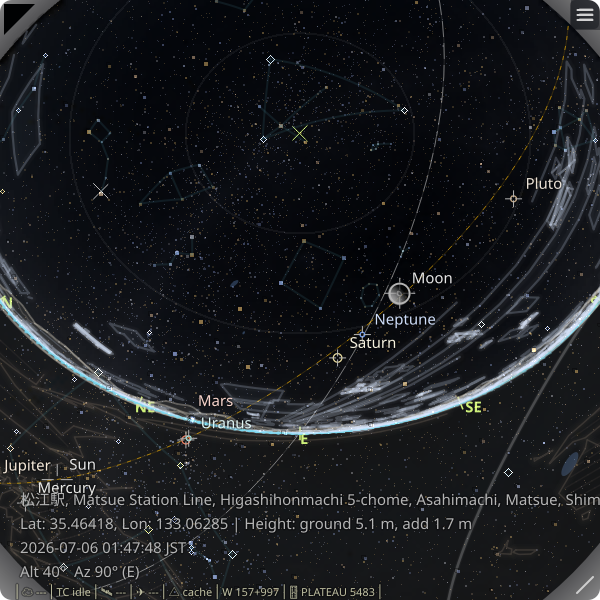
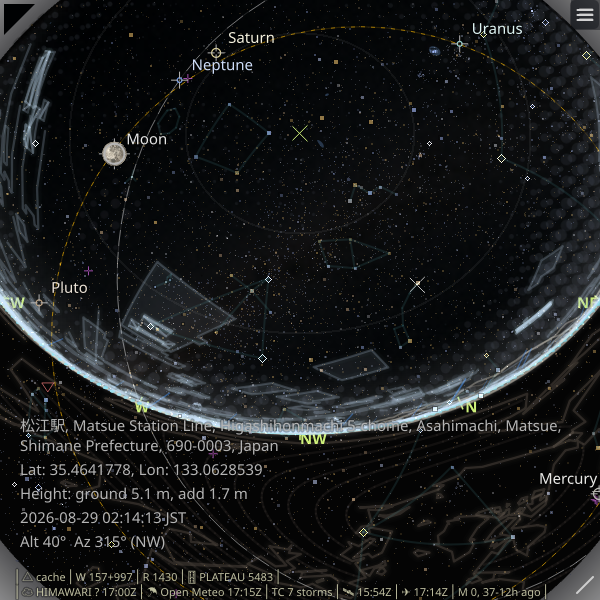
docs: refresh README screenshots

diff --git a/README_pypi.md b/README_pypi.md
@@ -21,10 +21,10 @@ https://github.com/user-attachments/assets/b0a4e340-1089-4256-9c48-b795d5c7b200
 
 ## Screen descriptions
 
-<p>This view shows the night sky over a Japanese city, displayed with <code>-p "Matsue Station" -A5 -Anw</code>. The mouse is hovering near Vega, so the asterism it belongs to, the Summer Triangle, is shown. Buildings are displayed as an <em>urban outline</em>.</p>
-<p>Clouds are visible on the left side of the image, which is the western sky, rendered as a halftone pattern of circular dots. Clouds are rendered from cloud amounts estimated from satellite data such as GOES and Himawari.</p>
+<p>This view shows the night sky over a Japanese city, displayed with <code>zstarview -p "Matsue Station" -A5 -Zn -a0.4 -P0.4</code>. The mouse is hovering near Vega, so the asterism it belongs to, the Summer Triangle, is shown. Buildings are displayed as an <em>urban outline</em>.</p>
+<p>Clouds are visible on the right side of the image, rendered as a halftone pattern of circular dots. Clouds are rendered from cloud amounts estimated from satellite data such as GOES and Himawari.</p>
 <p>Building data is generally obtained from Overture Maps, but <a href="https://github.com/tos-kamiya/zstarview#plateau-building-data-preparation">PLATEAU data</a> is also available for some Japanese cities. This screenshot uses PLATEAU data.</p>
-<p align="center"><img src="https://raw.githubusercontent.com/tos-kamiya/zstarview/main/docs/images/screenshot1.png" width="60%" alt="Night sky over Matsue Station with the Summer Triangle asterism, western clouds, and urban outline"></p>
+<p align="center"><img src="https://raw.githubusercontent.com/tos-kamiya/zstarview/main/docs/images/screenshot1.png" width="60%" alt="Night sky over Matsue Station with the Summer Triangle asterism, clouds on the right, and urban outline"></p>
 
 <p>This view shows Atlanta airport and the busy airspace above it, with more than ten aircraft visible. Aircraft trails are rendered as purple ribbons, and the ellipse below the horizon marks the <em>never-rises</em> region: the part of the celestial sphere that never comes above the horizon. The celestial equator and ecliptic are shown as dashed reference lines.</p>
 <p>The celestial equator is a great circle whose normal axis is the Earth's rotation axis, the line connecting the north and south celestial poles. The never-rises boundary is a smaller circle around the same axis.</p>
@@ -38,8 +38,8 @@ https://github.com/user-attachments/assets/b0a4e340-1089-4256-9c48-b795d5c7b200
 <p>This view is from a tower 108 meters above the ground, with the viewing altitude lowered slightly to <code>-A-5</code> degrees. Some towers, such as Kobe Port Tower, have their locations and heights registered in the internal database. Use <code>--list-viewpoints t</code> to list the available tower names, or <code>--list-viewpoints m</code> to list the available mountain names. This view also uses <em>night lights</em>, a dataset of the brightness of the ground as seen from space, which makes the ground glow differently over urban and sea areas.</p>
 <p align="center"><img src="https://raw.githubusercontent.com/tos-kamiya/zstarview/main/docs/images/screenshot9.png" width="60%" alt="Night-light ground glow viewed from a 108-meter tower at -5 degrees altitude"></p>
 
-<p>This view uses <code>-A40</code> to change the altitude of the viewing direction and shows a view looking upward into the sky. The field of view reaches 90 degrees at the edge of the screen, producing a subtle fisheye-lens effect.</p><p>The Moon is enlarged to 5x its normal apparent size after the mouse is moved over it. The enlargement makes the Moon's lunar phase—the shape of its illuminated and dark portions—easier to see. In the default bright-body mode, the normal Moon marker also uses a compact phase-aware outline. Unlike stars and planets, which are drawn according to visual magnitude, the Moon is rendered as a disk using its apparent angular size.</p>
-<p align="center"><img src="https://raw.githubusercontent.com/tos-kamiya/zstarview/main/docs/images/screenshot11.png" width="60%" alt="Moon enlarged by mouse hover in an upward-looking view over Matsue"></p>
+<p>This view uses <code>-A40</code> to change the altitude of the viewing direction and shows a view looking upward into the sky. The field of view reaches 90 degrees at the edge of the screen, producing a subtle fisheye-lens effect. The Moon is displayed in the upper-left part of the image.</p><p>The Moon is enlarged to 5x its normal apparent size after the mouse is moved over it. During normal operation, a simulated Moon image for the display time is fetched from NASA Scientific Visualization Studio's Dial-A-Moon API. The simulation includes the Moon's phase as the shadowed portion of the image.</p><p>In the default bright-body mode, the normal Moon marker uses a compact phase-aware outline. Unlike stars and planets, which are drawn according to visual magnitude, the Moon is rendered as a disk using its apparent angular size.</p>
+<p align="center"><img src="https://raw.githubusercontent.com/tos-kamiya/zstarview/main/docs/images/screenshot11.png" width="60%" alt="Moon enlarged by mouse hover in the upper-left of an upward-looking view over Matsue"></p>
 
 <p>This view shows a mountainous region of Switzerland, where steep terrain is visible along the horizon. Because the Sun is above the horizon, the sky is colored rather than fully dark. Terrain ridges are drawn in olive.</p><p>For cloud rendering, most of Europe is outside the coverage of GOES and Himawari, so clouds are not drawn by default. Experimental support is available through <code>--geo-satellite true</code>, which processes cloud imagery from a geostationary satellite.</p>
 <p align="center"><img src="https://raw.githubusercontent.com/tos-kamiya/zstarview/main/docs/images/screenshot10.png" width="60%" alt="Mountain terrain, colored sky, and halftone cloud overlay in Switzerland"></p>

diff --git a/README_ja-JP.md b/README_ja-JP.md
@@ -73,8 +73,8 @@ https://github.com/user-attachments/assets/b0a4e340-1089-4256-9c48-b795d5c7b200
 
 <table>
   <tr>
-    <td valign="top" width="33%"><img src="docs/images/screenshot1.png" alt="松江駅から見た夜空、Summer Triangle のアステリズム、画面左側の西の雲、都市アウトライン" width="100%" /></td>
-    <td valign="top"><p><code>-p "Matsue Station" -A5 -Anw</code> で表示した、日本の一都市の夜空です。恒星 Vega のあたりにマウスをホバーしているため、この星が属するアステリズムの Summer Triangle が表示されています。建物は <em>urban outline</em> として表示されています。</p><p>画面左側の西の空には雲が表示され、円形のドットを並べたハーフトーンで表現されています。雲は、GOES や Himawari などの衛星データから推定した雲量をもとに描画しています。</p><p>建物のデータは基本的には Overture Maps から取得しますが、日本の都市のいくつかについては、<a href="#plateau-building-data-preparation">PLATEAU のデータ</a>も利用可能です。このスクリーンショットでは PLATEAU のデータを利用しています。</p></td>
+    <td valign="top" width="33%"><img src="docs/images/screenshot1.png" alt="松江駅から見た夜空、Summer Triangle のアステリズム、画面右側の雲、都市アウトライン" width="100%" /></td>
+    <td valign="top"><p><code>zstarview -p "Matsue Station" -A5 -Zn -a0.4 -P0.4</code> で表示した、日本の一都市の夜空です。恒星 Vega のあたりにマウスをホバーしているため、この星が属するアステリズムの Summer Triangle が表示されています。建物は <em>urban outline</em> として表示されています。</p><p>画面右側には雲が表示され、円形のドットを並べたハーフトーンで表現されています。雲は、GOES や Himawari などの衛星データから推定した雲量をもとに描画しています。</p><p>建物のデータは基本的には Overture Maps から取得しますが、日本の都市のいくつかについては、<a href="#plateau-building-data-preparation">PLATEAU のデータ</a>も利用可能です。このスクリーンショットでは PLATEAU のデータを利用しています。</p></td>
   </tr>
 </table>
 
@@ -101,8 +101,8 @@ https://github.com/user-attachments/assets/b0a4e340-1089-4256-9c48-b795d5c7b200
 
 <table>
   <tr>
-    <td valign="top" width="33%"><img src="docs/images/screenshot11.png" alt="-A40で見上げた松江上空の月をマウスホバーで5倍に拡大" width="100%" /></td>
-    <td valign="top"><p>視線方向の高度を変更するオプションに <code>-A40</code> を指定し、空を見上げた状況を示しています。FOV は画面の端で 90 度になるため、少し魚眼レンズのような効果が現れます。</p><p>月の上にマウスを移動すると、月が通常の見かけの大きさの 5 倍に拡大されます。通常の動作では、表示時刻に対応する月画像を NASA Scientific Visualization Studio の Dial-A-Moon API から取得します。このスクリーンショットに写っているのは、画像を取得できない場合に使われる影付きの球体によるフォールバック表示であり、取得したNASA画像ではありません。</p><p>この拡大表示により、月齢、つまり月の明るい部分と暗い部分の形を確認しやすくなります。デフォルトの明るい天体モードでは、通常サイズの月も明るい側の外周弧と明暗境界の弧による月相アウトラインで表示されます。視等級に応じて描かれる恒星や惑星とは異なり、月は見かけの角直径を基準に円盤として描かれます。</p></td>
+    <td valign="top" width="33%"><img src="docs/images/screenshot11.png" alt="-A40で見上げた松江上空の左上に表示された月をマウスホバーで5倍に拡大" width="100%" /></td>
+    <td valign="top"><p>視線方向の高度を変更するオプションに <code>-A40</code> を指定し、空を見上げた状況を示しています。FOV は画面の端で 90 度になるため、少し魚眼レンズのような効果が現れます。月は画面の左上側に表示されています。</p><p>月の上にマウスを移動すると、月が通常の見かけの大きさの 5 倍に拡大されます。通常の動作では、表示時刻に対応する月のシミュレーション画像を NASA Scientific Visualization Studio の Dial-A-Moon API から取得します。このシミュレーション画像には、影として月の位相が含まれています。</p><p>デフォルトの明るい天体モードでは、通常サイズの月は明るい側の外周弧と明暗境界の弧による月相アウトラインで表示されます。視等級に応じて描かれる恒星や惑星とは異なり、月は見かけの角直径を基準に円盤として描かれます。</p></td>
   </tr>
 </table>
 

diff --git a/README.md b/README.md
@@ -75,8 +75,8 @@ https://github.com/user-attachments/assets/b0a4e340-1089-4256-9c48-b795d5c7b200
 
 <table>
   <tr>
-    <td valign="top" width="33%"><img src="docs/images/screenshot1.png" alt="Night sky over Matsue Station with the Summer Triangle asterism, western clouds, and urban outline" width="100%" /></td>
-    <td valign="top"><p>This view shows the night sky over a Japanese city, displayed with <code>-p "Matsue Station" -A5 -Anw</code>. The mouse is hovering near Vega, so the asterism it belongs to, the Summer Triangle, is shown. Buildings are displayed as an <em>urban outline</em>.</p><p>Clouds are visible on the left side of the image, which is the western sky, rendered as a halftone pattern of circular dots. Clouds are rendered from cloud amounts estimated from satellite data such as GOES and Himawari.</p><p>Building data is generally obtained from Overture Maps, but <a href="#plateau-building-data-preparation">PLATEAU data</a> is also available for some Japanese cities. This screenshot uses PLATEAU data.</p></td>
+    <td valign="top" width="33%"><img src="docs/images/screenshot1.png" alt="Night sky over Matsue Station with the Summer Triangle asterism, clouds on the right, and urban outline" width="100%" /></td>
+    <td valign="top"><p>This view shows the night sky over a Japanese city, displayed with <code>zstarview -p "Matsue Station" -A5 -Zn -a0.4 -P0.4</code>. The mouse is hovering near Vega, so the asterism it belongs to, the Summer Triangle, is shown. Buildings are displayed as an <em>urban outline</em>.</p><p>Clouds are visible on the right side of the image, rendered as a halftone pattern of circular dots. Clouds are rendered from cloud amounts estimated from satellite data such as GOES and Himawari.</p><p>Building data is generally obtained from Overture Maps, but <a href="#plateau-building-data-preparation">PLATEAU data</a> is also available for some Japanese cities. This screenshot uses PLATEAU data.</p></td>
   </tr>
 </table>
 
@@ -103,8 +103,8 @@ https://github.com/user-attachments/assets/b0a4e340-1089-4256-9c48-b795d5c7b200
 
 <table>
   <tr>
-    <td valign="top" width="33%"><img src="docs/images/screenshot11.png" alt="Moon enlarged by mouse hover in an upward-looking view over Matsue" width="100%" /></td>
-    <td valign="top"><p>This view uses <code>-A40</code> to change the altitude of the viewing direction and shows a view looking upward into the sky. The field of view reaches 90 degrees at the edge of the screen, producing a subtle fisheye-lens effect.</p><p>The Moon is enlarged to 5x its normal apparent size after the mouse is moved over it. During normal operation, the hover image is fetched for the display time from NASA Scientific Visualization Studio's Dial-A-Moon API. This screenshot shows the shaded-sphere fallback used while that image is unavailable, so it does not show the downloaded NASA image.</p><p>The enlargement makes the Moon's lunar phase—the shape of its illuminated and dark portions—easier to see. In the default bright-body mode, the normal Moon marker also uses a compact phase-aware outline. Unlike stars and planets, which are drawn according to visual magnitude, the Moon is rendered as a disk using its apparent angular size.</p></td>
+    <td valign="top" width="33%"><img src="docs/images/screenshot11.png" alt="Moon enlarged by mouse hover in the upper-left of an upward-looking view over Matsue" width="100%" /></td>
+    <td valign="top"><p>This view uses <code>-A40</code> to change the altitude of the viewing direction and shows a view looking upward into the sky. The field of view reaches 90 degrees at the edge of the screen, producing a subtle fisheye-lens effect. The Moon is displayed in the upper-left part of the image.</p><p>The Moon is enlarged to 5x its normal apparent size after the mouse is moved over it. During normal operation, a simulated Moon image for the display time is fetched from NASA Scientific Visualization Studio's Dial-A-Moon API. The simulation includes the Moon's phase as the shadowed portion of the image.</p><p>In the default bright-body mode, the normal Moon marker uses a compact phase-aware outline. Unlike stars and planets, which are drawn according to visual magnitude, the Moon is rendered as a disk using its apparent angular size.</p></td>
   </tr>
 </table>
 

diff --git a/dev-notes/session-2026-08-29.md b/dev-notes/session-2026-08-29.md
@@ -1,0 +1,29 @@
+# Session 2026-08-29
+
+Scope: Replace README screenshots and update their descriptions.
+
+- Topic: README screenshot refresh
+  - Decision: Use `screenshot1-4.png` and `screenshot11-2.png` as the
+    canonical files `screenshot1.png` and `screenshot11.png`.
+  - Rationale: The README descriptions must match the current screenshots;
+    the new first image has clouds on the right, and the new Moon image places
+    the Moon in the upper-left portion of the view.
+  - Implementation: Update the English, Japanese, and PyPI README variants
+    and preserve the existing image filenames used by their links.
+
+- Summary: Replaced `docs/images/screenshot1.png` with the former
+  `screenshot1-4.png`, and `docs/images/screenshot11.png` with the former
+  `screenshot11-2.png`. Updated all three README variants; `git diff --check`
+  passed.
+
+- Topic: screenshot1 command line
+  - Decision: Document the exact command
+    `zstarview -p "Matsue Station" -A5 -Zn -a0.4 -P0.4` in all README variants.
+
+- Topic: screenshot11 Moon rendering description
+  - Decision: Describe the current fetched Moon simulation image, including
+    lunar phase as the shadowed portion; remove the obsolete fallback wording.
+
+- Topic: screenshot11 paragraph opening
+  - Decision: Start the third description paragraph with the default
+    bright-body mode statement to remove redundant wording about enlargement.
